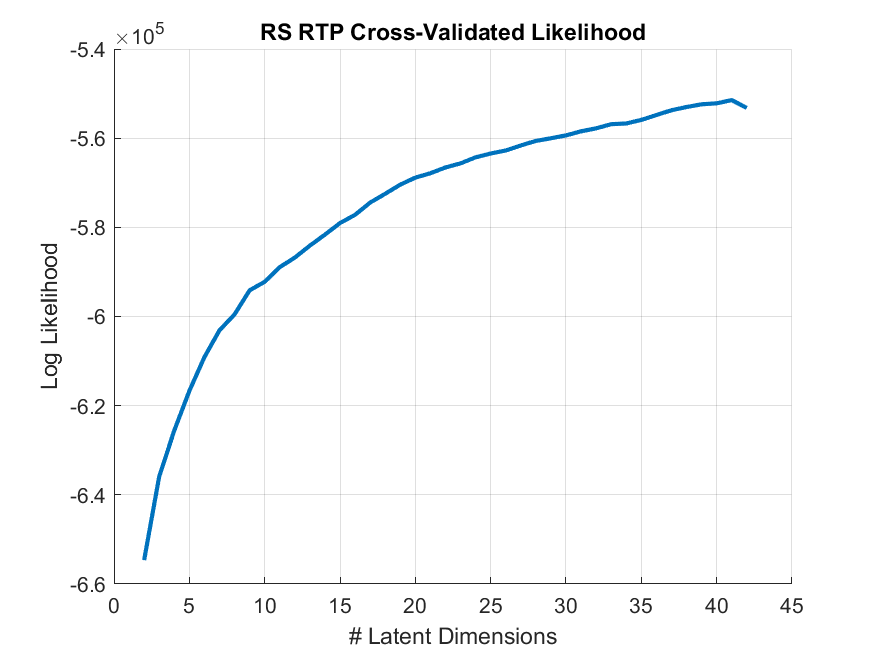
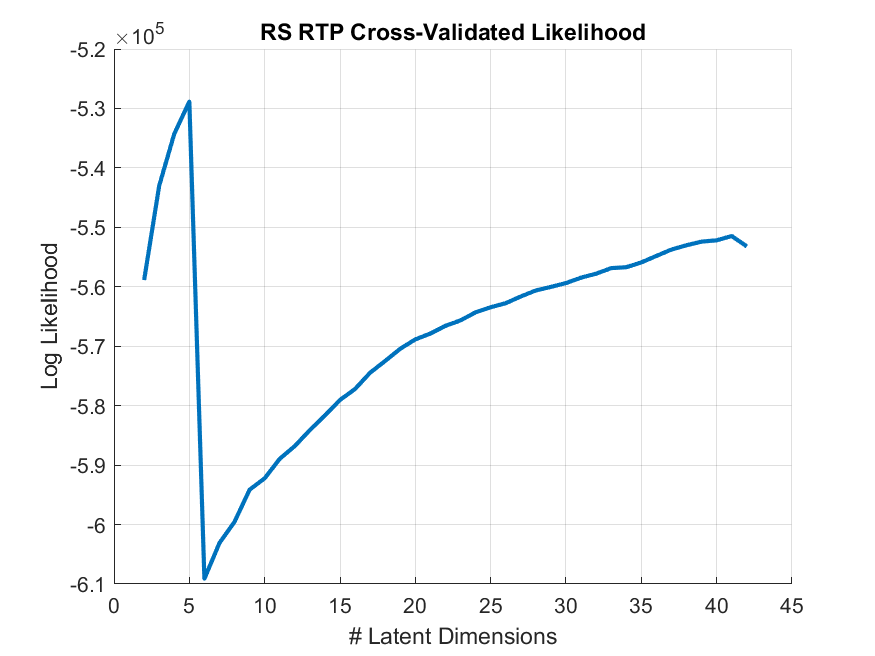
uh

diff --git a/code/python_switching_models/compare_log_likelihood_results_across_models.m b/code/python_switching_models/compare_log_likelihood_results_across_models.m
@@ -8,14 +8,14 @@ end
 filepath_base = [file_base_base '\Documents\git\intermittent_control_project\data\python_switching_models\'];
 
 % filepath = [filepath_base 'RSCO_move_window0.05sBins\'];
-% filepath = [filepath_base 'RSRTP0.05sBins\'];
+filepath = [filepath_base 'RSRTP0.05sBins\'];
 % filepath = [filepath_base 'RJRTP0.05sBins\'];
 % filepath = [filepath_base 'Bxcenter_out1902280.05sBins\'];
 % filepath = [filepath_base 'Bxcenter_out_and_RTP1902280.05sBins\'];
-filepath = [filepath_base 'BxRTP0.05sBins\'];
+% filepath = [filepath_base 'BxRTP0.05sBins\'];
 % filepath = [filepath_base 'Bx18CO0.05sBins\'];
 
-meta.subject = 'Bx';
+meta.subject = 'RS';
 subject = meta.subject;
 meta.task = 'RTP';
 task = meta.task;

diff --git a/code/python_switching_models/ll_csv_to_plot_lds.m b/code/python_switching_models/ll_csv_to_plot_lds.m
@@ -8,14 +8,14 @@ end
 filepath_base = [file_base_base '\Documents\git\intermittent_control_project\data\python_switching_models\'];
 
 % filepath = [filepath_base 'RSCO_move_window0.05sBins\'];
-% filepath = [filepath_base 'RSRTP0.05sBins\'];
+filepath = [filepath_base 'RSRTP0.05sBins\'];
 % filepath = [filepath_base 'RJRTP0.05sBins\'];
 % filepath = [filepath_base 'Bxcenter_out1902280.05sBins\'];
 % filepath = [filepath_base 'Bxcenter_out_and_RTP1902280.05sBins\'];
-filepath = [filepath_base 'BxRTP0.05sBins\'];
+% filepath = [filepath_base 'BxRTP0.05sBins\'];
 % filepath = [filepath_base 'Bx18CO0.05sBins\'];
 
-meta.subject = 'Bx';
+meta.subject = 'RS';
 meta.task = 'RTP';
 meta.crosstrain = 0;
 meta.move_only = 0;

diff --git a/code/python_switching_models/matlab_reimport.m b/code/python_switching_models/matlab_reimport.m
@@ -12,11 +12,11 @@ figure_base = [file_base_base '\Documents\git\intermittent_control_project\figur
 % filepath = [filepath_base 'Bxcenter_out1902280.05_sBins_move_window_only\'];
 
 % filepath = [filepath_base 'RSCO_move_window0.05sBins\'];
-% filepath = [filepath_base 'RSRTP0.05sBins\'];
+filepath = [filepath_base 'RSRTP0.05sBins\'];
 % filepath = [filepath_base 'RJRTP0.05sBins\'];
 % filepath = [filepath_base 'Bxcenter_out1902280.05sBins\'];
 % filepath = [filepath_base 'Bxcenter_out_and_RTP1902280.05sBins\'];
-filepath = [filepath_base 'BxRTP0.05sBins\'];
+% filepath = [filepath_base 'BxRTP0.05sBins\'];
 % filepath = [filepath_base 'Bx18CO0.05sBins\'];
 
 % OPTIONS
